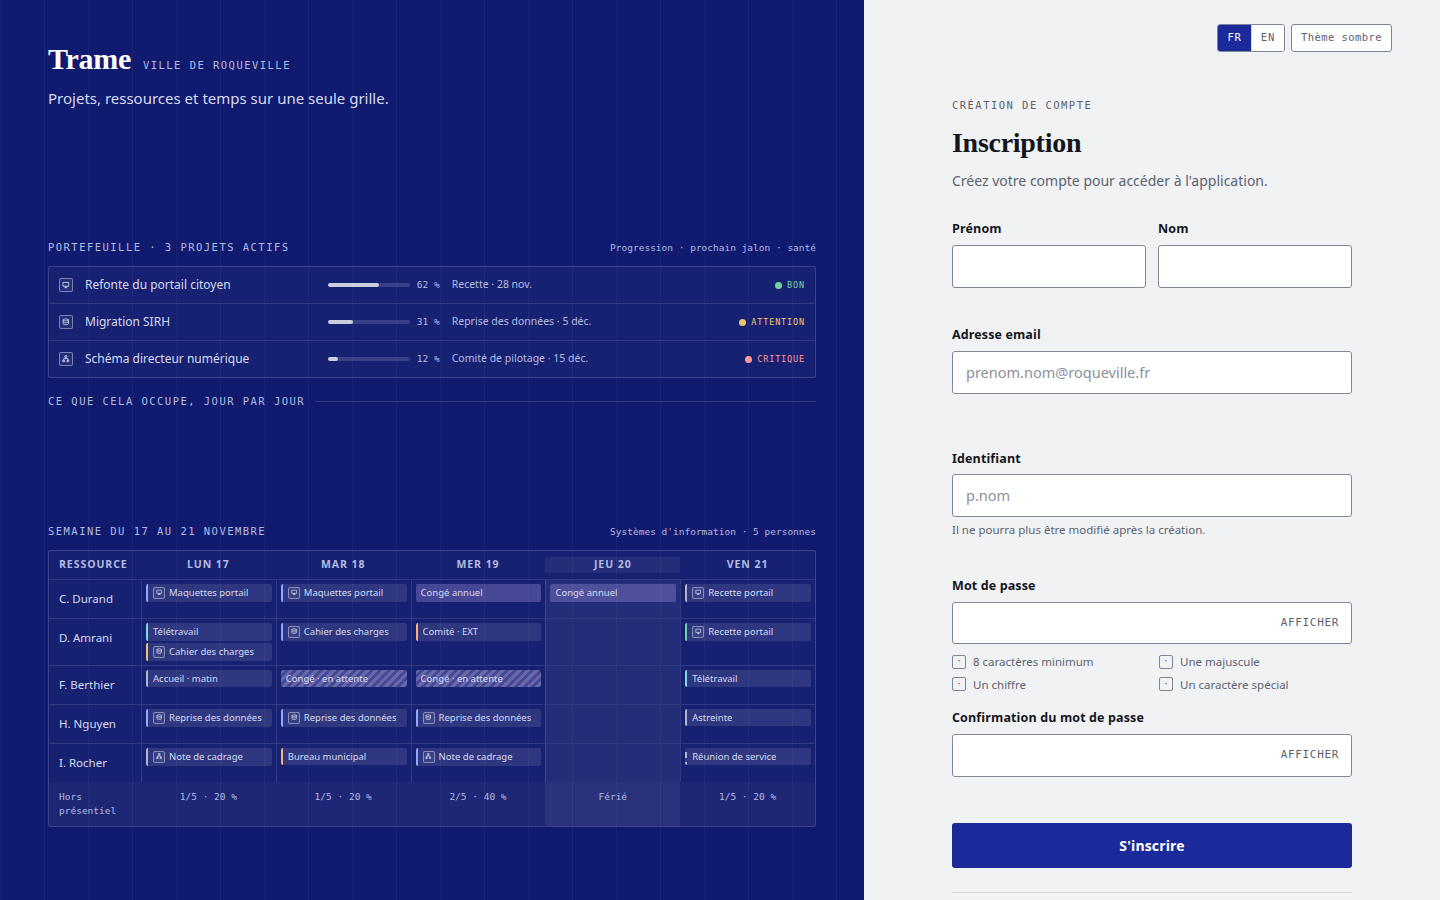
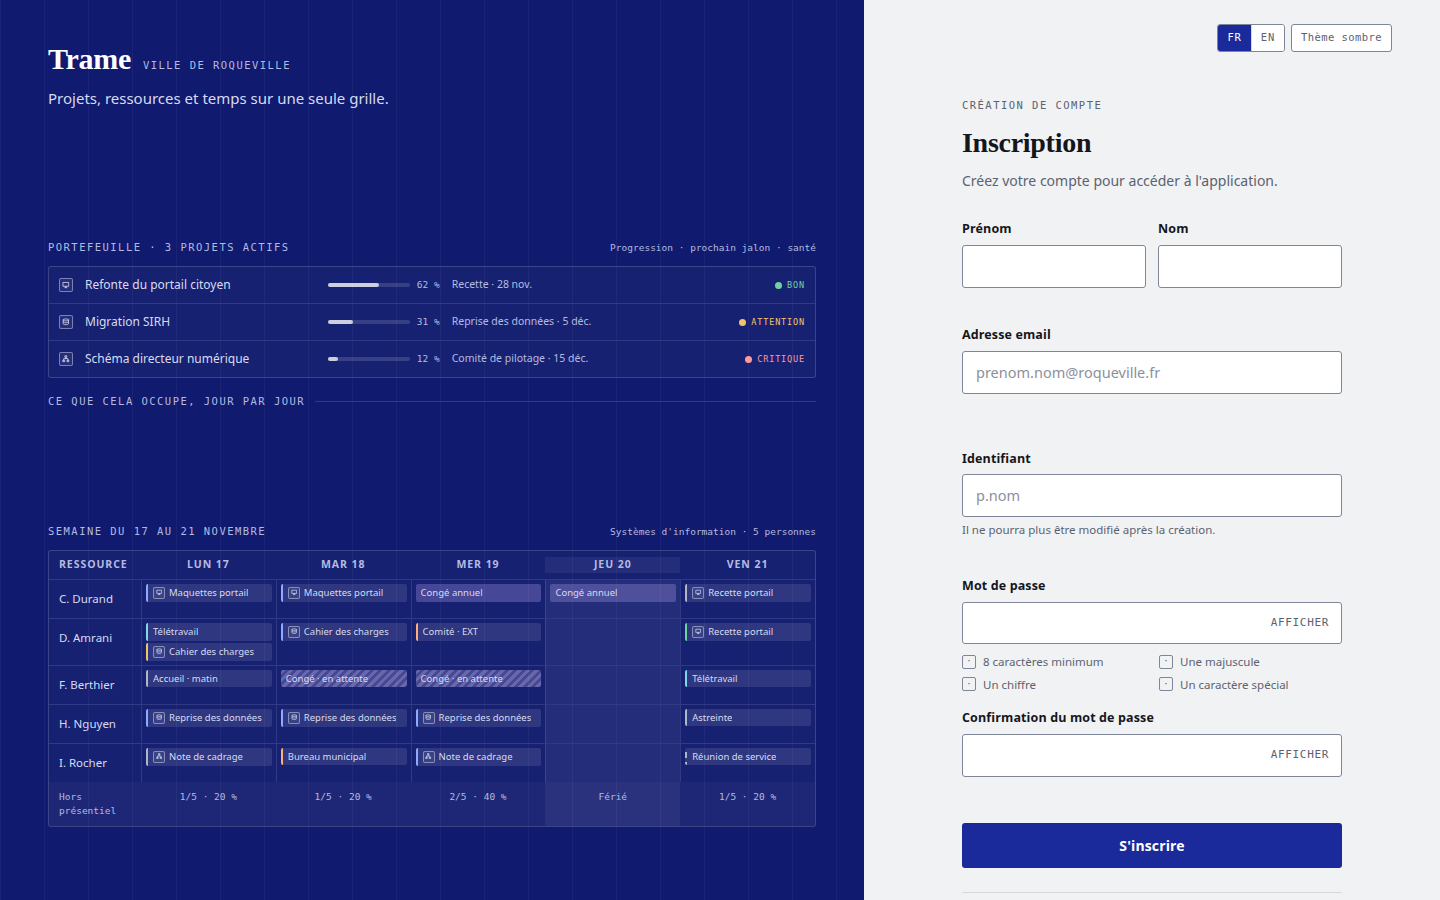
fix(vues 02-05): interpolation ICU, pastille de marque, largeur de carte
Trois défauts que le comparateur de conformité ne pouvait pas voir, trouvés en
exerçant les états à la main.

- **« Renvoyer dans {{n}} s » ne s'interpolait pas.** Le produit est en ICU
  (ADR-0011) : l'espace réservé s'écrit à une accolade. Le décompte de renvoi
  de la vue 03 affichait le gabarit brut, et rien n'était rouge — ni le
  typage, ni le contrôle i18n, qui vérifient l'existence des clés, pas la
  forme de leurs valeurs. Même correction sur le motif « réinit. admin ».

- **`.pglyph` était défini deux fois à spécificité égale**, au socle depuis
  8296eaa et dans acces.css : laquelle gagne dépendait de l'ordre des imports.
  La variante de marque est désormais ancrée à `.brand-panel`, et `.pgi`, qui
  était identique des deux côtés, ne vit plus qu'au socle.

- **`.form-card--wide` valait 400 px ; la maquette en rend 380.** Les
  maquettes 01 et 02 déclarent la variante en section 4 puis `.form-card` en
  section 7 : à spécificité égale, la seconde gagne et la variante est inerte.
  L'ordre est reproduit tel quel — la référence est ce que la maquette rend,
  pas ce qu'elle déclare. La carte de la vue 02 est désormais au pixel.

pnpm verif vert · axe sans violation grave sur les vues 01 à 05, deux thèmes ·
pnpm ui:diff 01 02 03 04 05 : 0 écart.

Claude-Session: https://claude.ai/code/session_01TL5gHGuSNVhUXqvVrgBv77

diff --git a/apps/web/src/routes/acces.css b/apps/web/src/routes/acces.css
@@ -292,32 +292,23 @@
 /*
  * La pastille de projet porte l'icône du référentiel, jamais une initiale :
  * deux projets peuvent commencer par la même lettre, pas porter la même icône.
+ *
+ * **Le sélecteur est descendant, et ce n'est pas un détail.** Le socle porte
+ * désormais `.pglyph` — la version posée sur surface claire, employée par une
+ * trentaine de vues. Ici la pastille est posée sur l'aplat de marque et prend
+ * les jetons `--brand-*`. À spécificité égale, laquelle des deux gagne dépend
+ * de l'ordre des feuilles, donc de l'ordre des imports : une dépendance
+ * invisible, qu'un simple déplacement d'import casserait sans un mot. Ancrer
+ * la variante à `.brand-panel` la rend indépendante de cet ordre — et dit où
+ * elle vit. `.pgi` est identique dans les deux : il reste au socle, seul.
  */
-.pglyph {
-  display: inline-flex;
-  align-items: center;
-  justify-content: center;
-  flex: none;
+.brand-panel .pglyph {
   width: 14px;
   height: 14px;
-  border: 1px solid var(--brand-glyphe);
-  border-radius: 2px;
-  font-family: var(--font-mono);
-  font-size: 8px;
-  font-style: normal;
+  border-color: var(--brand-glyphe);
   font-weight: 500;
   color: var(--on-brand-doux);
   background: var(--brand-fond-2);
-}
-
-.pgi {
-  width: 64%;
-  height: 64%;
-  fill: none;
-  stroke: currentColor;
-  stroke-width: 1.7;
-  stroke-linecap: round;
-  stroke-linejoin: round;
 }
 
 /* ── 8. Grille miniature — le vocabulaire visuel des cellules ───────────── */

diff --git a/apps/web/src/styles/socle.css b/apps/web/src/styles/socle.css
@@ -192,7 +192,18 @@ a.eyebrow:hover{ color:var(--ink); }
 .field-error.is-quiet{ visibility:hidden; }
 /* Repris de la section 4 des maquettes, omis au portage de L-00 : la vue 13
    l'emploie pour dire ce que devient un jalon sans date. Une aide de champ
-   n'est pas un ornement — c'est souvent la seule explication d'un choix. */
+   n'est pas un ornement — c'est souvent la seule explication d'un choix.
+
+   **Les maquettes 04 et 05 ont perdu cette règle**, alors qu'elles posent la
+   classe : deux `<p class="field-hint">` en vue 05 — « Celui qui vous a été
+   communiqué. » et « Cette étape est obligatoire… » — y tombent sur les
+   défauts du navigateur, donc 15 px d'encre pleine avec 1 em de marge. La
+   carte de la vue 05 mesure 70 px de plus dans la maquette que dans le
+   produit, et c'est cet écart-là qui l'explique.
+
+   C'est le piège de la classe inerte, dans la maquette elle-même. La règle de
+   la maquette 02 fait foi : une aide de champ se lit comme une aide, pas
+   comme du corps de texte. On ne recopie pas une règle manquante. */
 .field-hint{ font-size:11.5px; color:var(--muted); margin:5px 0 0; line-height:1.4; }
 /* Indicateur de politique de mot de passe (vues 02 · 04 · 05) */
 .policy{ margin-top:9px; display:grid; grid-template-columns:1fr 1fr; gap:5px 14px; }
